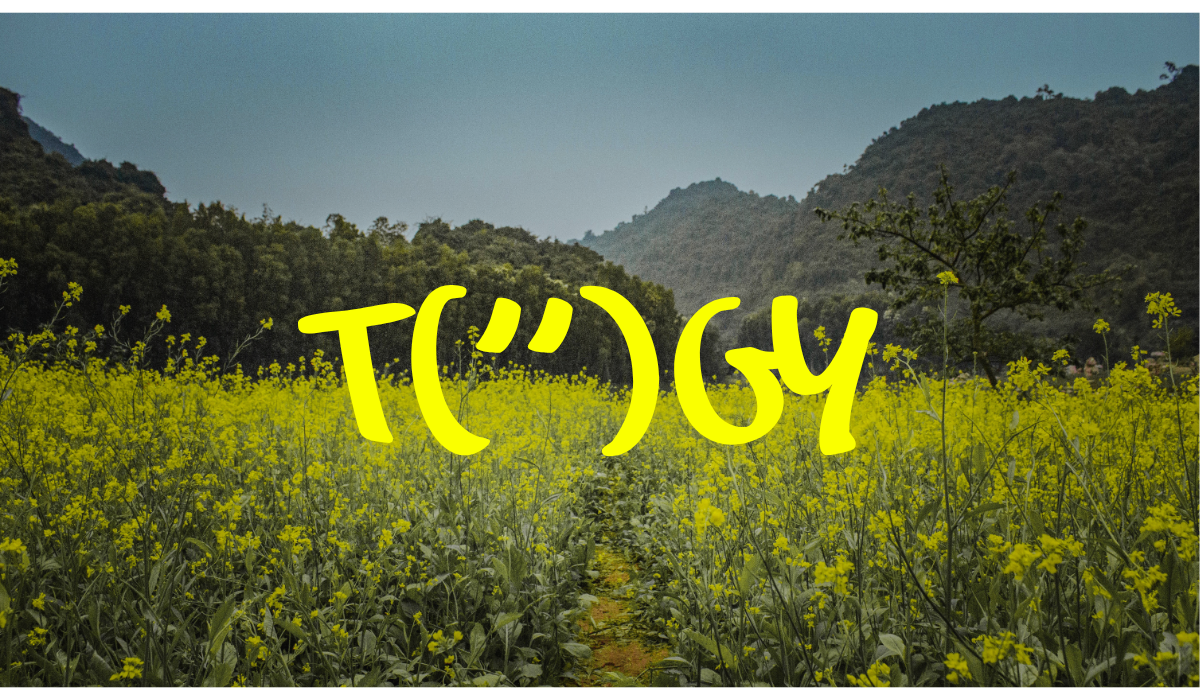
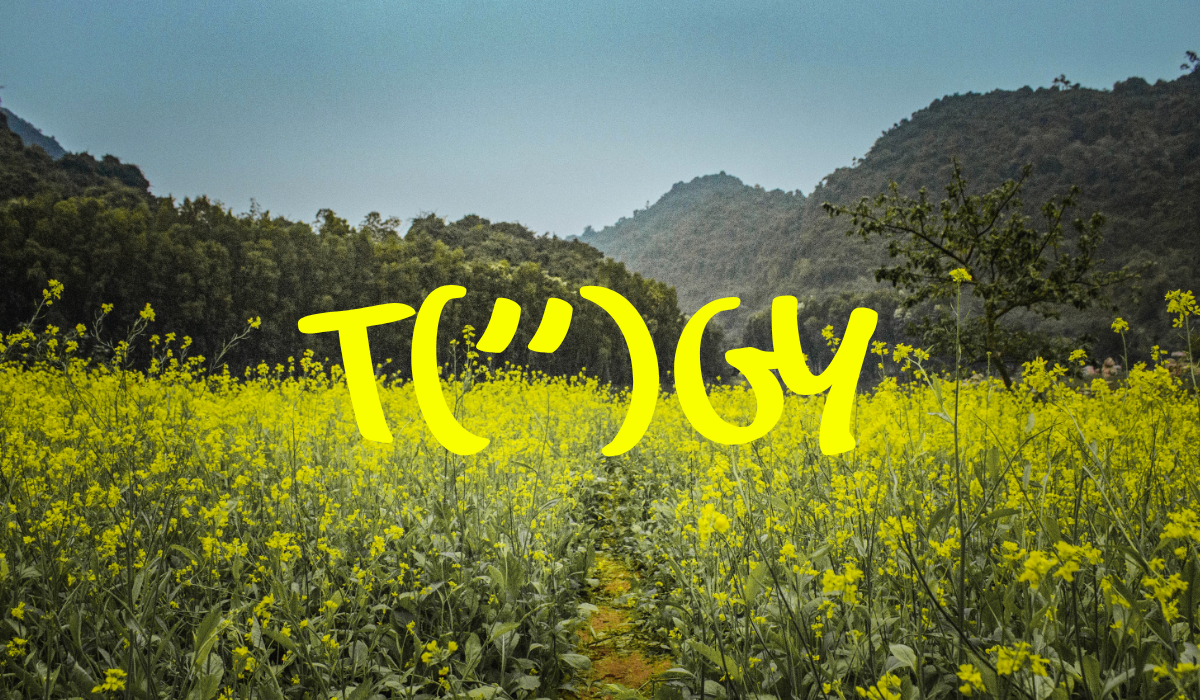
new res

diff --git a/childish togy/style.css b/childish togy/style.css
@@ -135,7 +135,8 @@ body {
 /* Slider styles */
 .hero-slider {
     position: relative;
-    max-width: 1200px;
+    width: 1200px; /* target desktop width */
+    max-width: 100%; /* allow shrink on small viewports */
     margin: 0 auto;
     overflow: hidden;
     border-radius: 12px;
@@ -143,16 +144,22 @@ body {
 }
 .slides {
     position: relative;
+    width: 1200px;
+    max-width: 100%;
     height: 700px; /* desktop target height for 1200x700 images */
 }
 .slide {
     position: absolute;
-    inset: 0;
+    left: 0;
+    top: 0;
+    width: 1200px;
+    max-width: 100%;
+    height: 700px;
     opacity: 0;
     transition: opacity 0.6s ease;
 }
 .slide.active { opacity: 1; position: relative; }
-.slide img { width: 100%; height: 700px; object-fit: cover; display: block; }
+.slide img { width: 1200px; max-width: 100%; height: 700px; object-fit: cover; display: block; }
 .slider-btn {
     position: absolute;
     top: 50%;